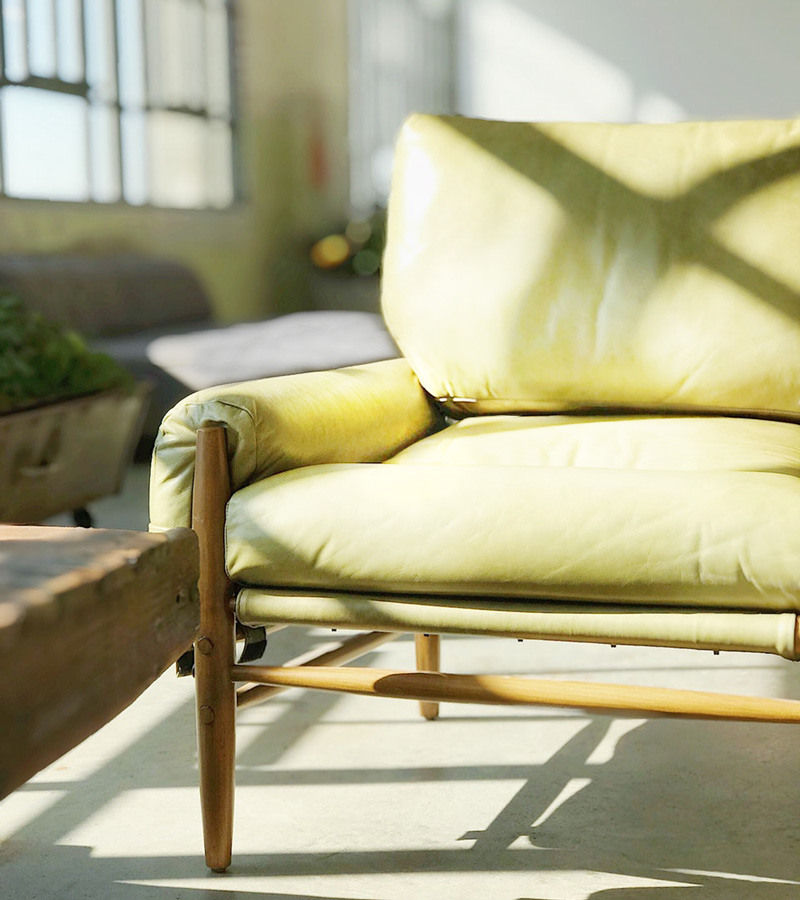
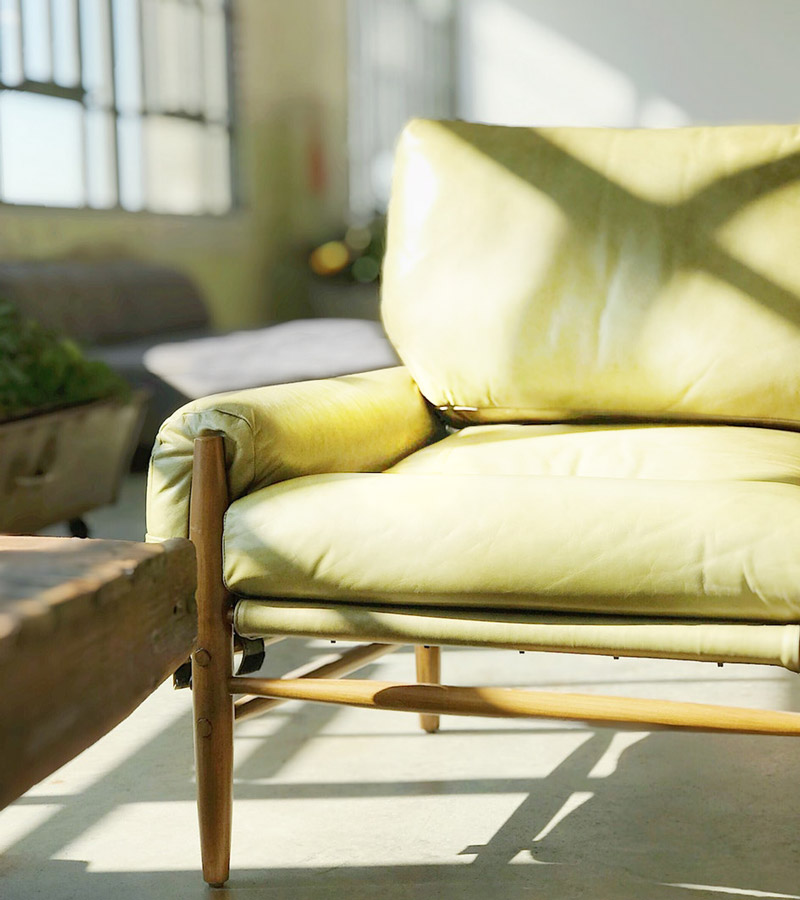
swap arrow direction

diff --git a/index.html b/index.html
@@ -7,7 +7,7 @@
     <meta name="viewport" content="width=device-width, initial-scale=1.0">
     <title>Faraday Park | New Apartments Coming to Reston, Virginia Fall 2020</title>
     <link rel="stylesheet" href="https://use.typekit.net/txx3zgf.css">
-    <link rel="stylesheet" href="assets/css/app.ddbc57a0.css">
+    <link rel="stylesheet" href="assets/css/app.c6d5dc7a.css">
   </head>
 <body>
 
@@ -44,7 +44,7 @@
         <img src="assets/img/Faraday_Park-slide_0-tropical_plant.c79c49d5.jpg" alt="Tropical plants cast shadows on a wall.">
       </div>
       <div id="slide-1" class="slide">
-        <img src="assets/img/Faraday_Park-slide_1-green_chair.79775a56.jpg" alt="Green Arm-chair">
+        <img src="assets/img/Faraday_Park-slide_1-green_chair.e35df485.jpg" alt="Green Arm-chair">
       </div>
       <div id="slide-2" class="slide">
         <div>

diff --git a/src/assets/scss/_layout.scss b/src/assets/scss/_layout.scss
@@ -172,13 +172,13 @@
 }
 
 #previous-icon {
-  transform: rotate(230deg) skew(10deg, 0deg);
+  transform: rotate(50deg) skew(10deg, 0deg);
   top: 0;
   left: .5rem;
 }
 
 #next-icon {
-  transform: rotate(50deg) skew(10deg, 0deg);
+  transform: rotate(230deg) skew(10deg, 0deg);
   top: 0;
   left: -.5rem;
 }
